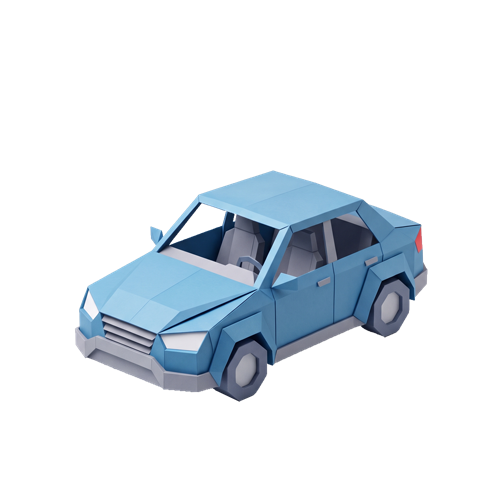
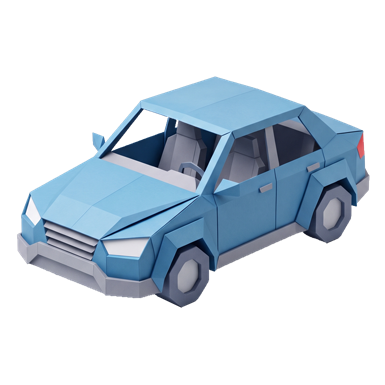
fixed some style

Changed region(s): [[0.0312, 0.187, 0.9662, 0.8104]]

diff --git a/app.config.ts b/app.config.ts
@@ -4,18 +4,22 @@ const config: ExpoConfig = {
   name: "Khodban",
   slug: "khodban",
   scheme: "xyz.nateghi.khodban",
-  version: "2.0.2",
+  version: "2.0.3",
   orientation: "portrait",
   icon: "./assets/images/icon.png",
   userInterfaceStyle: "automatic",
   platforms: ["android"],
   android: {
-    versionCode: 202,
+    versionCode: 203,
     package: "xyz.nateghi.khodban",
     predictiveBackGestureEnabled: false,
     softwareKeyboardLayoutMode: "resize",
     permissions: ["POST_NOTIFICATIONS", "VIBRATE"],
     blockedPermissions: ["android.permission.SYSTEM_ALERT_WINDOW"],
+  },
+  experiments: {
+    typedRoutes: true,
+    reactCompiler: true,
   },
   plugins: [
     "expo-router",
@@ -47,10 +51,6 @@ const config: ExpoConfig = {
     ],
     "./plugins/with-android-release-signing",
   ],
-  experiments: {
-    typedRoutes: true,
-    reactCompiler: true,
-  },
 };
 
 export default config;

diff --git a/src/app/(tabs)/(home)/about.tsx b/src/app/(tabs)/(home)/about.tsx
@@ -69,7 +69,8 @@ export default function AboutScreen() {
       <Text style={styles.appName}>{t("app.name")}</Text>
       <Text style={styles.title}>{t("app.description")}</Text>
       <Text style={styles.version}>
-        {convertEnglishNumberToPersian(currentVersion)}
+        {t("about.version")}
+        {isRTL ? convertEnglishNumberToPersian(currentVersion) : currentVersion}
       </Text>
 
       <Card style={{ marginTop: 10 }}>

diff --git a/src/components/MenuItem.tsx b/src/components/MenuItem.tsx
@@ -61,13 +61,13 @@ const styles = StyleSheet.create({
     flex: 1,
   },
   itemTitle: {
-    fontSize: 15,
-    fontWeight: "600",
-    color: "#111827",
+    fontSize: 14,
+    fontWeight: "bold",
+    color: Theme.text,
   },
   itemDescription: {
     fontSize: 12,
     color: "#6B7280",
-    marginTop: 4,
+    marginTop: 1,
   },
 });
